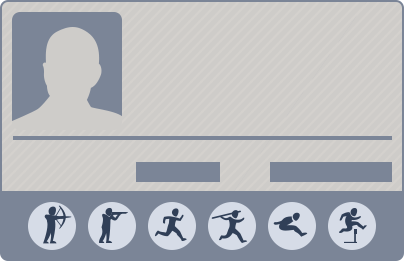
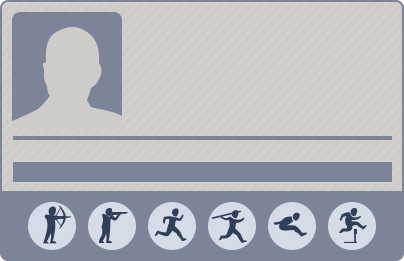
card img remove ID an dtExp, game name: remove +

Changed region(s): [[0.0297, 0.613, 0.3564, 0.705], [0.5347, 0.613, 0.6832, 0.705]]

diff --git a/app/src/main/java/by/kipind/game/olympicgames/activitys/PlayerInfoActivity.java b/app/src/main/java/by/kipind/game/olympicgames/activitys/PlayerInfoActivity.java
@@ -321,8 +321,8 @@ public class PlayerInfoActivity extends SimpleLayoutGameActivity implements Text
 
         gameHUD.attachChild(hudNickFormBG);
         gameHUD.attachChild(PanelLbNameEnter);
-        gameHUD.attachChild(PanelLbExDate);
-        gameHUD.attachChild(PanelLbIDNum);
+      //  gameHUD.attachChild(PanelLbExDate);
+      //  gameHUD.attachChild(PanelLbIDNum);
         gameHUD.attachChild(edTxt);
         gameHUD.attachChild(exitBtn);
         gameHUD.attachChild(musicBtn);
